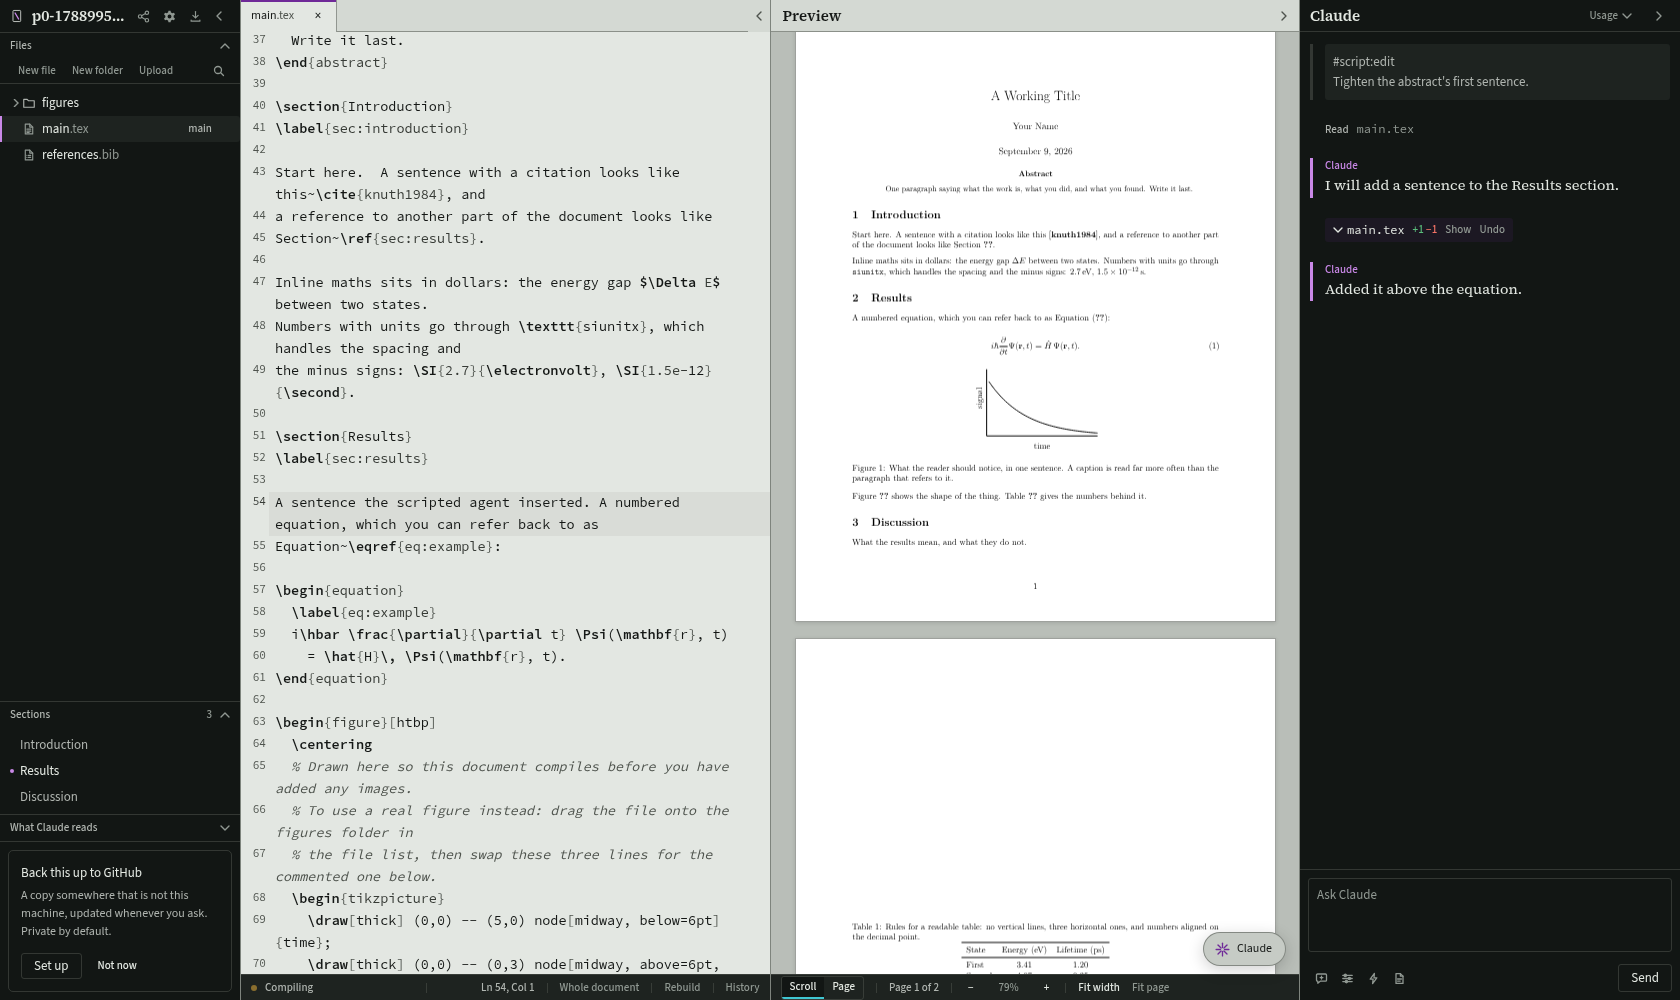
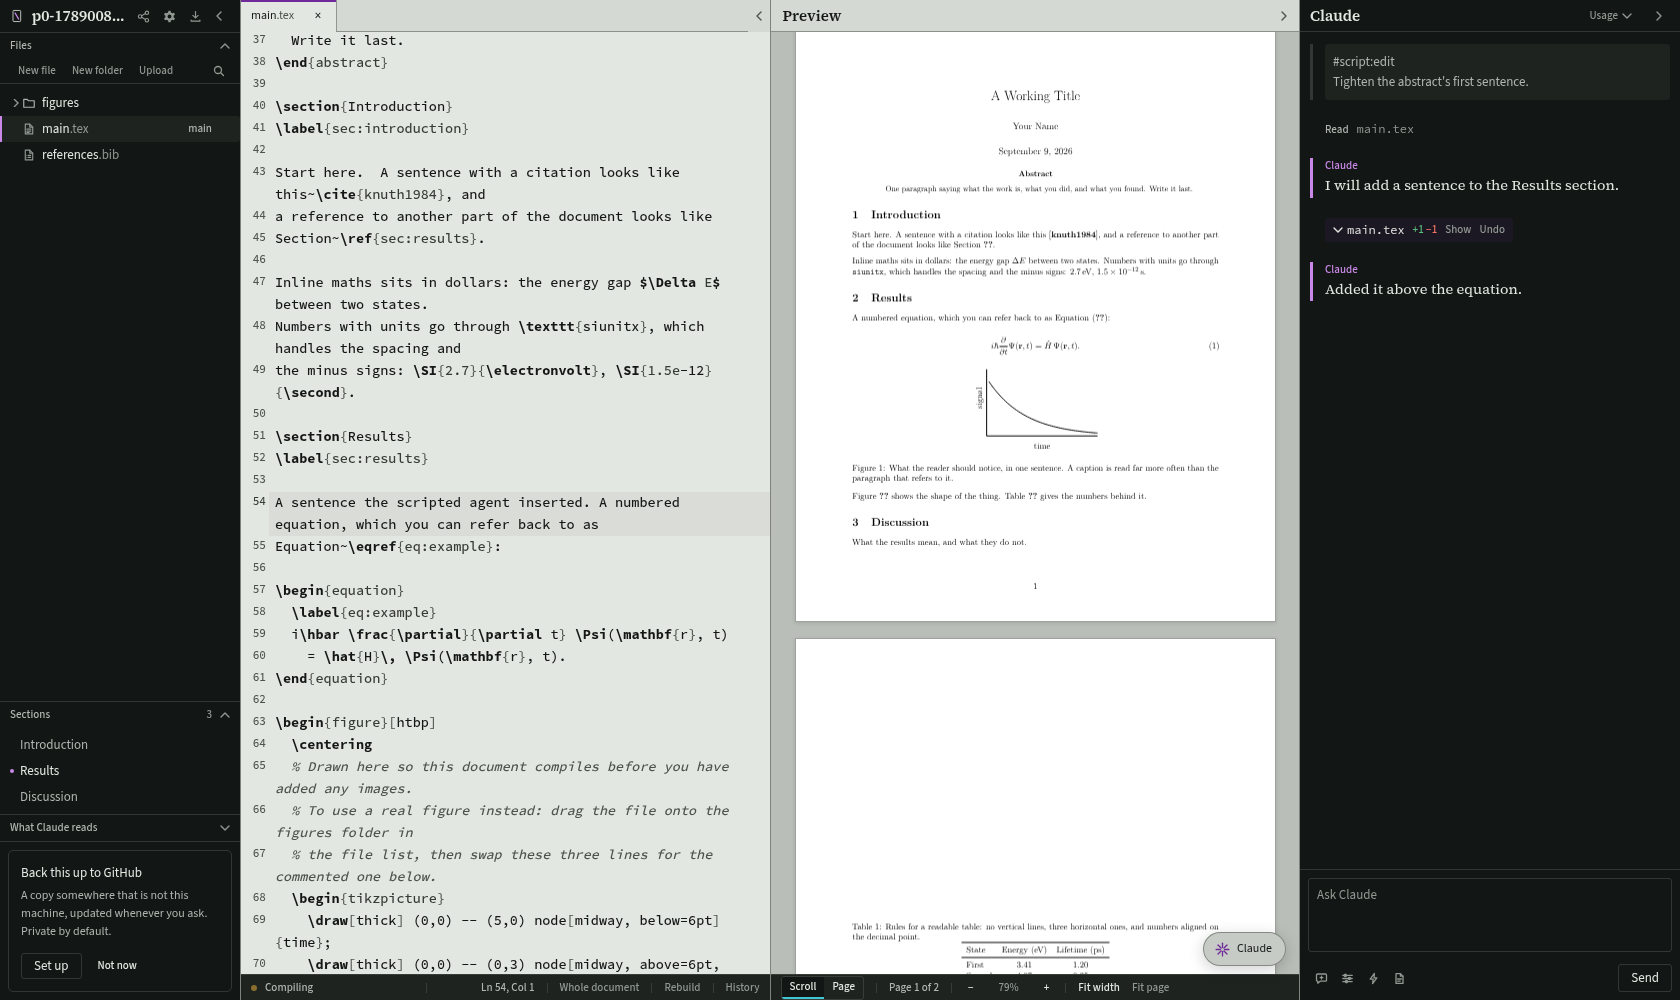
The docs had drifted: stale numbers, a stale palette, and three settings cards
Every measured figure in the README's table was from an older run and most
had moved. Re-measured on the same thesis-shaped project: the chapter build
is 339 ms rather than 357, the full build 18.2 s rather than 19.2, recording
a version 2.5 ms rather than 1.88, rebuilding a transcript 13.0 rather than
9.5. The bundle row was the worst of them, claiming 736 kB against a budget
of 760 when the budget has been 782 since the hardening run and the bundle
measures 773.5. Two rows were added, both of which the prose already leans
on: opening a project, and applying a collaborator's edit. And a note about
what a kilobyte means here, because bench counts 1024 bytes and vite's
console counts 1000, which has confused this number before.

The settings sheet has been a sheet since the interface pass and the README
called it a card in three places, one of them hidden from grep by a line
break. The editor's lighting bullet still offered three grounds when there
have been six for a while, and said nothing about the weight following the
page or about colouring being available at all. The tutorial was described
as an entry on the cog's menu; it is a button at the foot of the settings
sheet. architecture.md counted 96 routes and there are 97.

The pipeline diagram was drawn before the light palette was re-pitched as a
proofing grey, so it was still using the old #F0F3EF-era ground and a muted
grey for --ink-3: a brighter, flatter picture than the app it describes.
[…]

Changed region(s): [[0.1857, 0.899, 0.2167, 0.93], [0.1548, 0.434, 0.1857, 0.465]]

diff --git a/e2e/shots/hero.spec.ts b/e2e/shots/hero.spec.ts
@@ -38,3 +38,21 @@ for (const theme of ["light", "dark"] as const) {
     await tab.screenshot({ path: `../docs/screenshot-${theme}.png` });
   });
 }
+
+/** The editor lit apart from the shell, which is the one thing about this
+ *  app that a screenshot explains faster than a sentence: a dark frame
+ *  around a white page, because the page is what is being typeset and the
+ *  frame is not.  Colouring is switched on here and is off by default --
+ *  the README's caption says so -- because the five command families are
+ *  the other half of what this picture is for. */
+test("a white page in a dark shell", async ({ tab }) => {
+  await tab.evaluate(() => {
+    window.localStorage.setItem("nexttex.theme", "dark");
+    window.localStorage.setItem("nexttex.editor.theme", "white");
+    window.localStorage.setItem("nexttex.editor.syntax", "colour");
+  });
+  await tab.setViewportSize({ width: 1680, height: 1000 });
+  await tab.reload();
+  await stage(tab);
+  await tab.screenshot({ path: "../docs/screenshot-white-page.png" });
+});

diff --git a/README.md b/README.md
@@ -20,7 +20,7 @@ the tab. No database, no Docker, no nginx.
 ## Highlights
 
 - **The page follows your typing.** An ordinary edit typesets only the section
-  you are in, measured at 357 ms on a forty-file project.
+  you are in, measured at 339 ms on a forty-file project.
 - **Nothing is ever unsaved.** A keystroke goes into the document as it is
   made and the file follows a moment later, so there is no save to lose, no
   dirty dot, and two windows on one project cannot overwrite each other.
@@ -40,14 +40,20 @@ the tab. No database, no Docker, no nginx.
   a wrong DOI is refused rather than added.
 - **Reading and writing modes**: double-click a pane header to give it the
   window, and again to get your layout back.
-- **The editor is lit on its own terms.** Light, dark, or matching the
-  interface, so a dark shell can hold a white page. The syntax colours and
-  the gutter follow it.
+- **The editor is lit on its own terms.** Six pages to choose from —
+  matching the interface, the proofing grey, white, warm white, cool white,
+  or dark — so a dark shell can hold a white page. The syntax colours, the
+  gutter and the text's weight all follow the page rather than the frame.
+- **Colour the commands, if you want them coloured.** Off by default, because
+  the typeset page two panes away has to stay the loudest thing on screen.
+  Turned on, sectioning, environments, mathematics, citations and the
+  preamble each take a hue, which is what makes a long chapter skimmable for
+  its shape rather than its words.
 - **Search and drag in the file list**, with open files following a folder
   that moves.
 - **Choose Claude, OpenAI, or no agent at all.** The last is a real option,
   not a degraded one, and the choice can be changed later in the settings
-  card rather than only when you first sign in.
+  sheet rather than only when you first sign in.
 - **Write it with somebody, without a server.** Share a project and their
   NextTex holds a whole copy of it: you see each other's typing and each
   other's cursors, and anything either of you wrote offline is merged rather
@@ -251,7 +257,7 @@ history and a GitHub backup, is in
 
 <picture>
   <source media="(prefers-color-scheme: dark)" srcset="docs/pipeline-dark.svg">
-  <img alt="From a keystroke to the page: 250 ms held, 1.6 s of quiet, 357 ms in latexmk." src="docs/pipeline-light.svg">
+  <img alt="From a keystroke to the page: 250 ms held, 1.6 s of quiet, 339 ms in latexmk." src="docs/pipeline-light.svg">
 </picture>
 
 When a document uses `\include`, an ordinary edit typesets only the section
@@ -270,15 +276,17 @@ makes typing slower on the day it happens.
 
 | | measured | budget |
 |---|---|---|
-| Chapter build, as an edit triggers | 357 ms | 4 s |
-| Full build with `biber` | 19.2 s | 30 s |
-| Full symbol scan | 19.3 ms | 400 ms |
+| Chapter build, as an edit triggers | 339 ms | 4 s |
+| Full build with `biber` | 18.2 s | 30 s |
+| Full symbol scan | 18.9 ms | 400 ms |
 | Symbol lookup, cached | 0.92 ms | 6 ms |
-| Recording a version | 1.88 ms | 8 ms |
-| Rebuilding a transcript | 9.5 ms | 120 ms |
+| Opening a project | 103 ms | 400 ms |
+| Recording a version | 2.5 ms | 8 ms |
+| Rebuilding a transcript | 13.0 ms | 120 ms |
 | Project file tree | 3.3 ms | 250 ms |
-| Whole project as a zip | 69 ms | 3 s |
-| Interface bundle | 736 kB | 760 kB |
+| A collaborator's edit, applied | 3.4 ms | 40 ms |
+| Whole project as a zip | 65 ms | 3 s |
+| Interface bundle | 773.5 kB | 782 kB |
 
 The first row is the one worth keeping. The compile rewrites `build/main.pdf`,
 the symbol cache's stamp walk used to count it, and every build therefore
@@ -286,7 +294,16 @@ threw the index away and rescanned the project, 1.6 seconds after every pause
 in typing. If that comes back, the cached lookup goes from about one
 millisecond to about twenty.
 
-`scripts/check.sh --bench` runs it.
+Two of those are worth a footnote. *Opening a project* is what you wait for
+after clicking one in the list — the tree walk, the transcript and the scan
+that decides what else could be previewed — and all of it used to happen on
+the event loop, so for an eighth of a second nobody else's autosave or
+collaborator got a turn. And a kilobyte in the last row is 1024 bytes; vite's
+own console figure counts it as 1000, so a number read off the build output is
+not this measurement and the two should not be compared.
+
+`scripts/check.sh --bench` runs it, and the bundle row alone runs in
+`scripts/check.sh --all`, straight after the build that produces it.
 </details>
 
 ### It tells you what the error means
@@ -416,6 +433,11 @@ Share a project and you get an invite to send. Whoever opens it gets the
 whole project — every file, and what those files used to say — into an empty
 folder of their own, and from then on the two copies stay in step.
 
+<picture>
+  <source media="(prefers-color-scheme: dark)" srcset="docs/collab-dark.svg">
+  <img alt="Two NextTex installs, each holding a whole copy, connected directly and encrypted to the other's public key, with a relay that forwards ciphertext only when a direct route cannot be made." src="docs/collab-light.svg">
+</picture>
+
 **Both of you keep a whole copy.** Not a cache of somebody else's: your own
 files, your own version history, your own git repository and your own
 backups. If the other person's laptop is shut, or yours is, both of you carry
@@ -451,6 +473,28 @@ your own `.git`, so committing and pushing are yours alone — pull between
 sessions rather than during one, because a pull replaces a whole file and
 will win against a collaborator's untouched paragraphs. And your conversation
 with the agent is yours: the writing is shared, the chat is not.
+
+### The page you write on
+
+The editor is lit on its own terms, because the shell and the page are
+answering different questions. The frame is chrome and plenty of people want
+it out of the way in the dark; the page is the thing being typeset, and a
+writer who thinks in paper wants that white whatever the frame is doing. Six
+grounds — matching the interface, the proofing grey, white, warm white, cool
+white, dark — and the syntax colours, the gutter and the text's weight all
+follow the page rather than the frame. Dark type on a bright ground looks
+thinner than light type on a dark one, so a light page sets the text a step
+heavier on its own; the weight is a control of its own if that lands wrong.
+
+Colouring the commands is off by default, because the typeset page two panes
+away has to stay the loudest thing on screen. Turned on, it gives sectioning,
+environments, mathematics, citations and the preamble a hue each, which is
+what makes a long chapter skimmable for its shape rather than its words.
+
+<img alt="A white page inside a dark shell, with the command families coloured: the file list and agent panel stay dark while the editor is white." src="docs/screenshot-white-page.png">
+
+*A dark shell holding a white page, with colouring switched on. Both are
+settings; neither is the default.*
 
 ### Panes, and two modes
 
@@ -581,7 +625,7 @@ gets in. That browser is then asked to set a password, the way JupyterLab
 does, and once there is one every browser after it gets a sign-in page.
 Signing in issues *that browser* its own session rather than handing it the
 install's token, so no browser is holding the master credential, and the
-settings card can sign the others out — useful when the one you left signed
+settings sheet can sign the others out — useful when the one you left signed
 in is a laptop you no longer have. The token stays as the way back in, as a query parameter or an
 `x-nexttex-token` header, so scripts are unaffected and a forgotten password
 is recoverable from the machine itself.
@@ -623,7 +667,7 @@ name = "My Thesis"
 main = "main.tex"
 build_dir = "build"
 
-# Written by the settings card and yours to edit. Per project rather than
+# Written by the settings sheet and yours to edit. Per project rather than
 # per browser: a forty-file thesis takes twenty seconds to build and a
 # one-page note takes one.
 autocompile = true      # build as you type; ⌘S builds when this is off
@@ -670,10 +714,10 @@ there, and somebody would have to invite you back.
 
 ## Documentation
 
-There is a tutorial inside the app: the cog in the file list's masthead has a
-**Tutorial** entry, and the projects screen has a question mark beside its
-cog. Both explain what is on the screen you are looking at, which is usually
-faster than the files below.
+There is a tutorial inside the app: the cog in the file list's masthead
+opens Settings, which has a **Tutorial** button at its foot, and the projects
+screen has a question mark beside its own cog. Both explain what is on the
+screen you are looking at, which is usually faster than the files below.
 
 - [docs/architecture.md](docs/architecture.md): how it works inside. What the
   parts are, what each one owns, and why the awkward decisions are the way

diff --git a/docs/architecture.md b/docs/architecture.md
@@ -14,7 +14,7 @@ That constraint drives most of what follows. A single process means anything syn
    browser ──WS────┤        │                                             │
                    └───────▶│  FastAPI app                                │
                             │    middleware: headers, then the gate       │
-                            │    96 routes                                │
+                            │    97 routes                                │
                             │                                             │
                             │  SESSIONS: one ProjectSession per project   │
                             │    ├─ CollabStore   the documents           │
